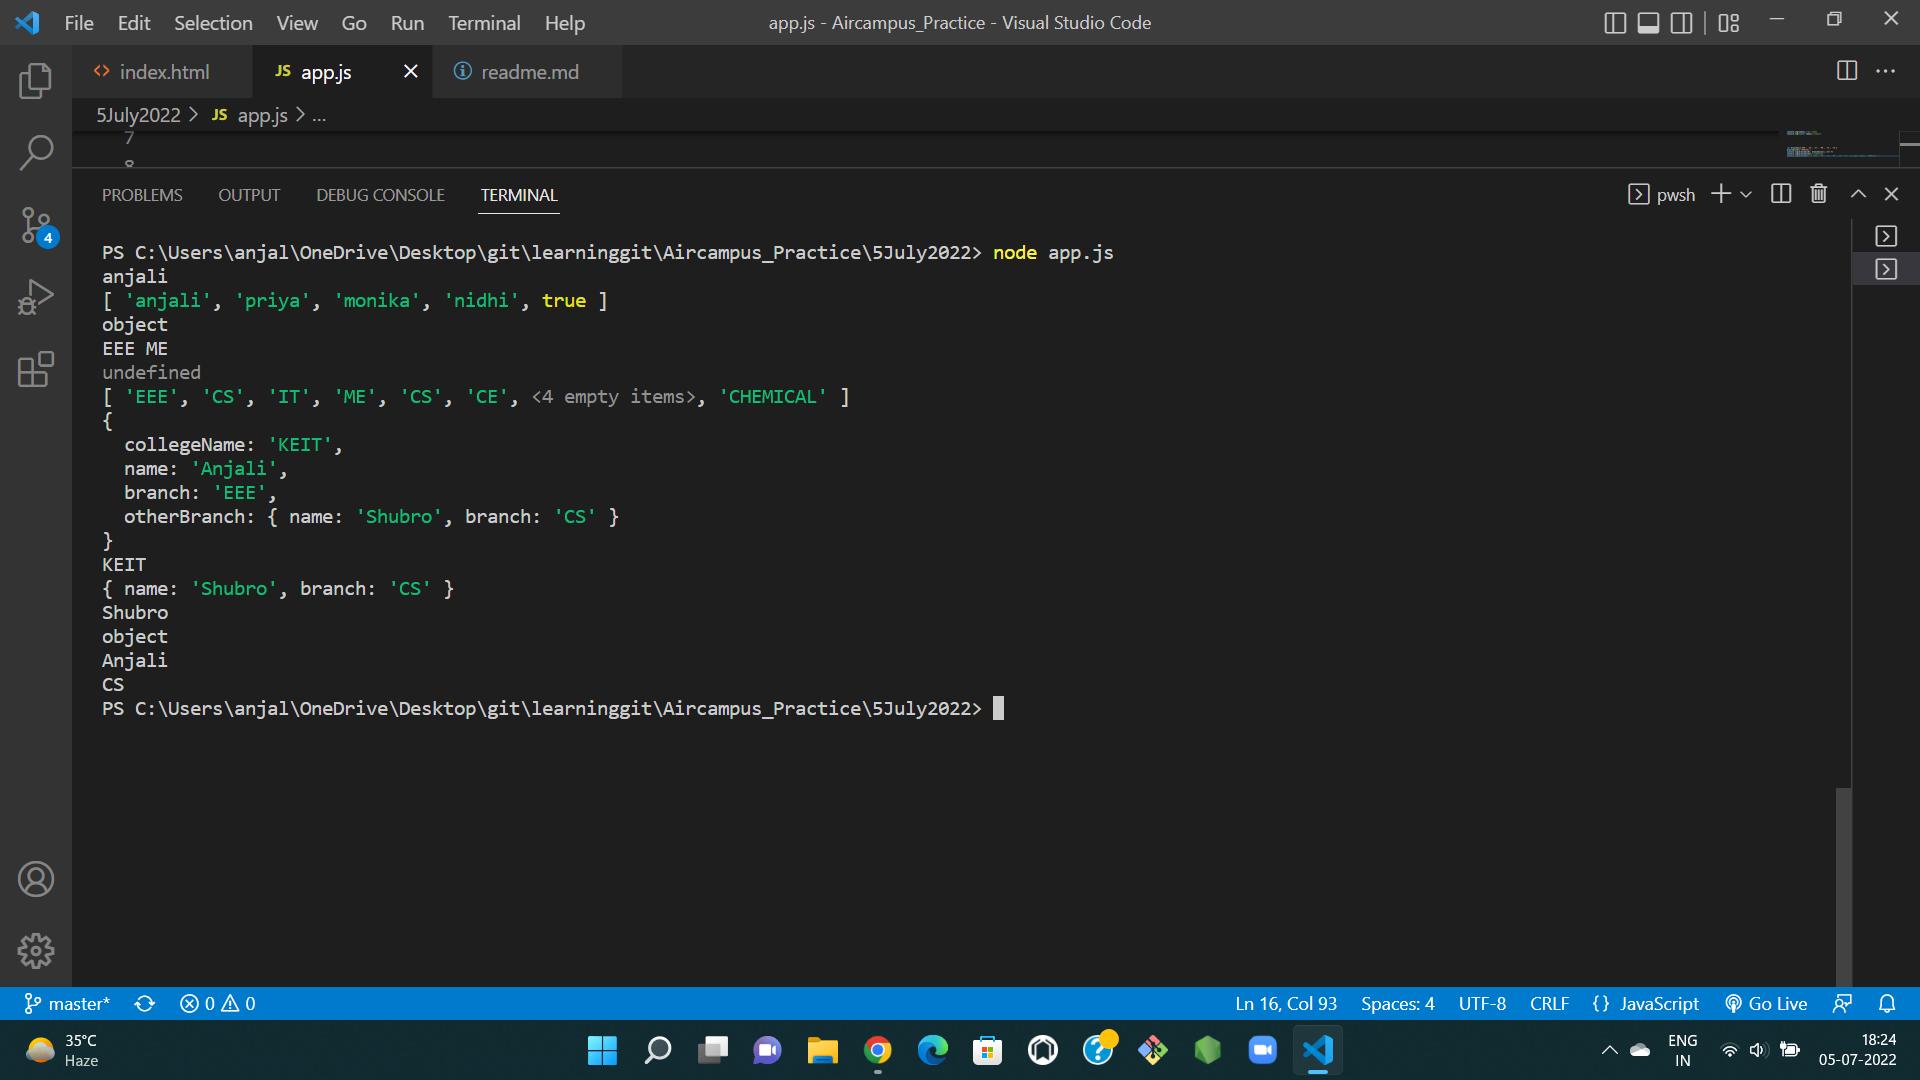
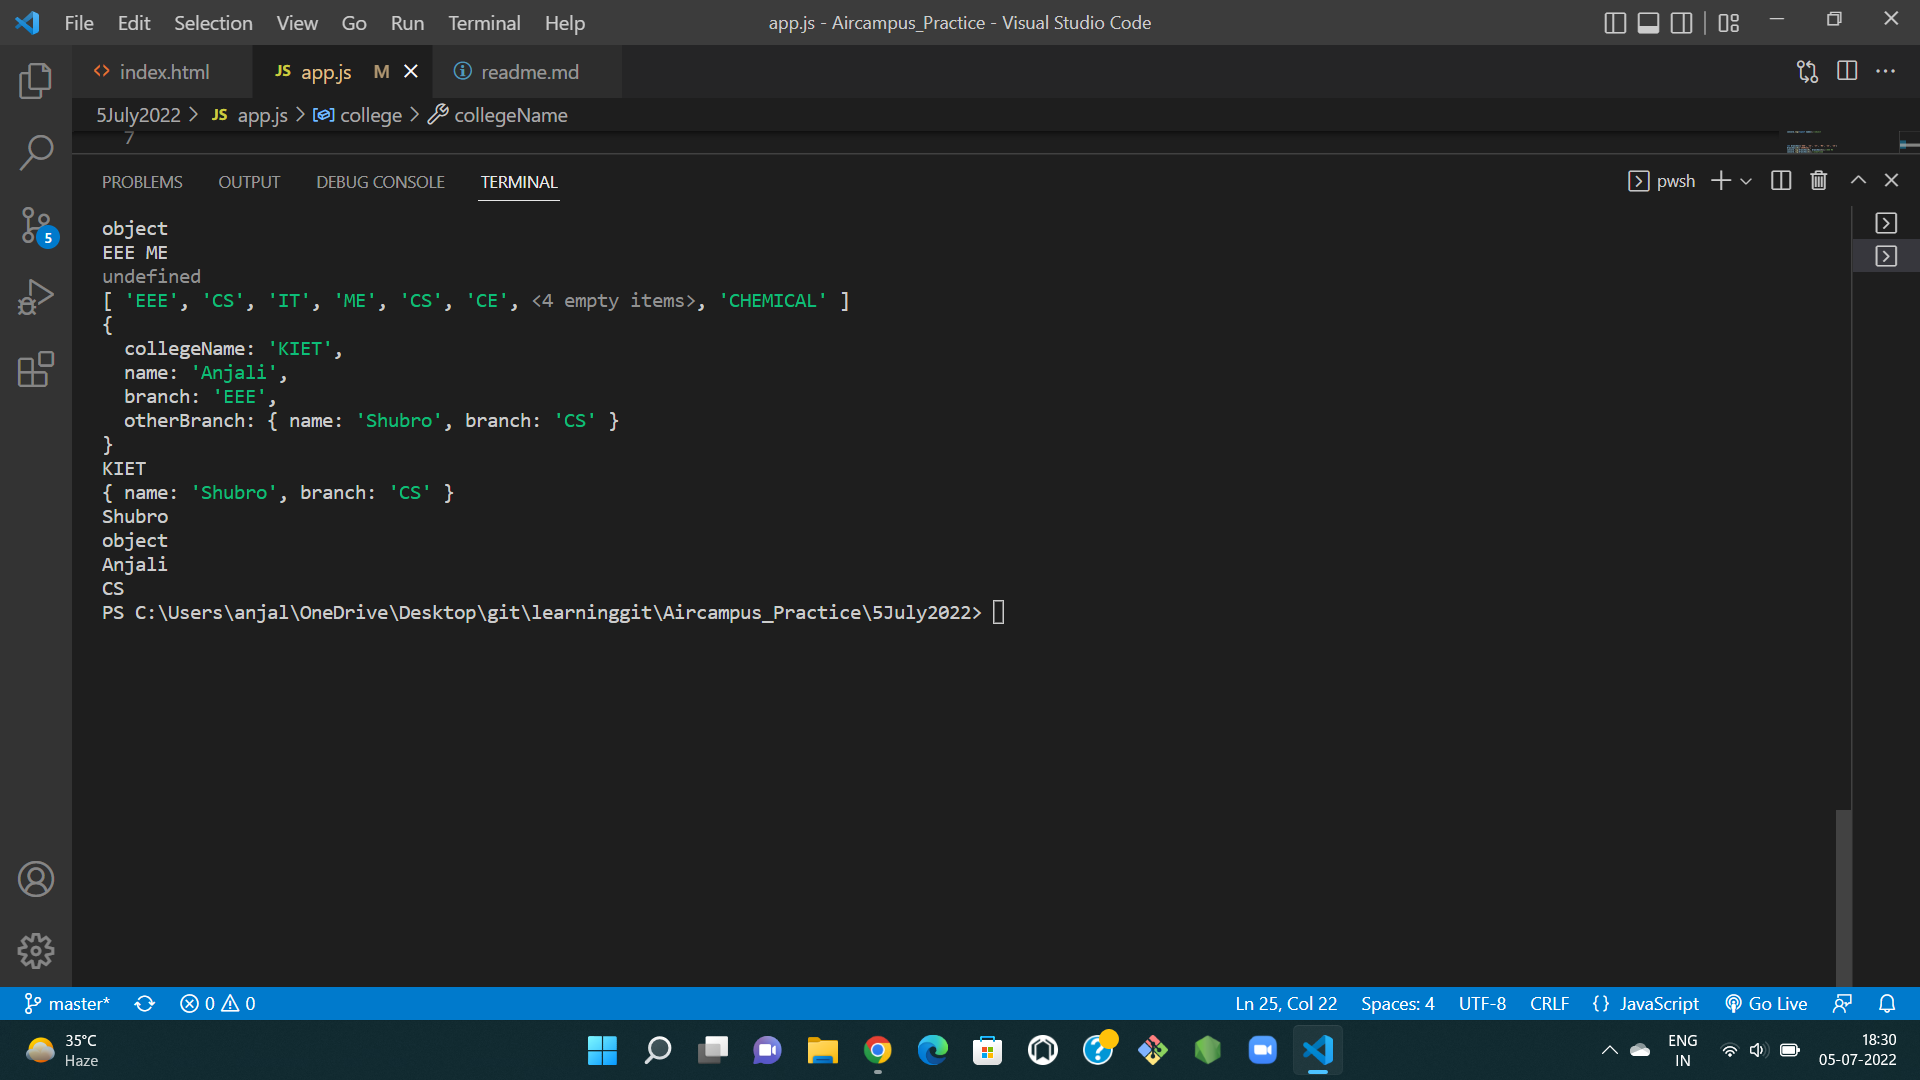
practice

diff --git a/5July2022/app.js b/5July2022/app.js
@@ -22,7 +22,7 @@ console.log(branches);//[ 'EEE', 'CS', 'IT', 'ME', 'CS', 'CE', <4 empty items>, 
 
 //-------------------------------------------------object-----------------------------------------------
 let college={
-    collegeName: 'KEIT',
+    collegeName: 'KIET',
     name: 'Anjali',
     branch: 'EEE',
     otherBranch:{
